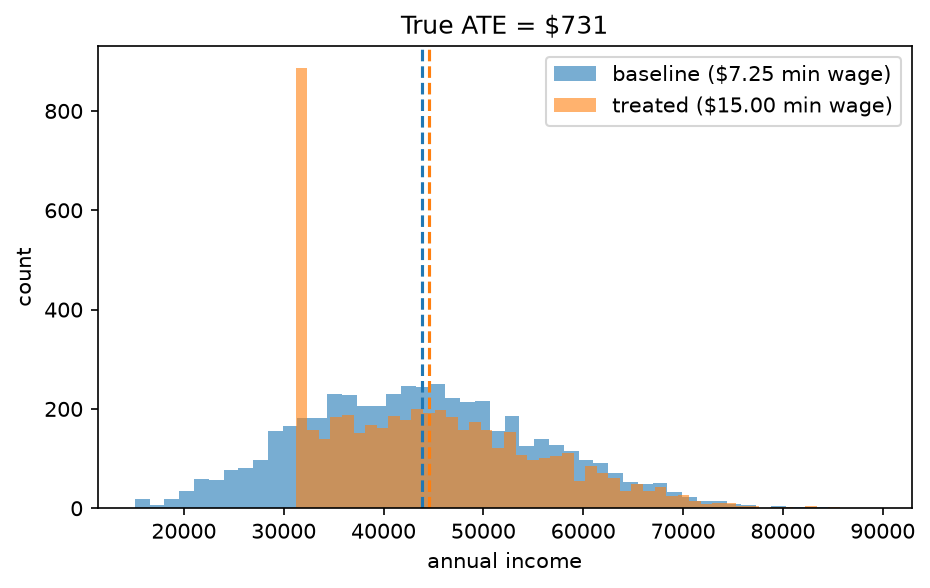
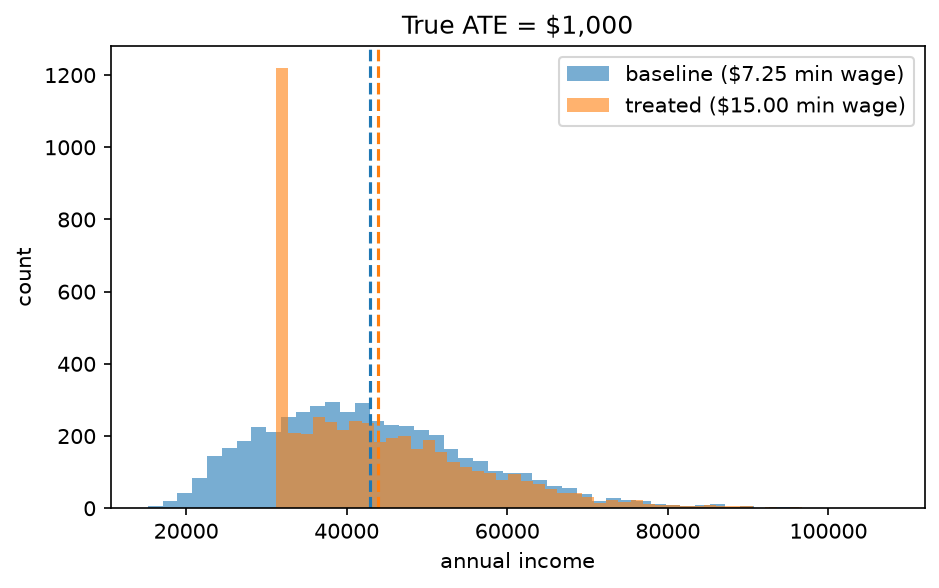
Update of results and image of minimum wage

diff --git a/quantitative_anaysis/causal_inference/minimum_wage_effect/minimum_wage_effect.py b/quantitative_anaysis/causal_inference/minimum_wage_effect/minimum_wage_effect.py
@@ -6,6 +6,9 @@ import matplotlib.pyplot as plt
 import networkx as nx
 import numpy as np
 import pandas as pd
+from rich import print, pretty
+
+#pretty.install()
 
 '''
 Set pathway for calling Synth City:
@@ -49,6 +52,9 @@ baseline_df = city.sample()
 
 treated_city = city.do(min_wage=MIN_WAGE_TREATMENT)
 treated_df = treated_city.sample()
+
+print("baseline mean income", baseline_df["income"].describe().round(2))
+print("treated mean income", treated_df["income"].describe().round(2))
 
 true_ate = treated_df["income"].mean() - baseline_df["income"].mean()
 print(f"true_ate (single sample, n={N}): {true_ate:,.2f}")

diff --git a/quantitative_anaysis/causal_inference/minimum_wage_effect/results.md b/quantitative_anaysis/causal_inference/minimum_wage_effect/results.md
@@ -1,50 +1,74 @@
-# Direct Intervention Effects: What Does Raising the Minimum Wage Actually Do?
+# What Happens to Society When the Minimum Wage Increases?
 
-**Status:** ☑ complete
-**Script:** [`minimum_wage_effect.py`](./minimum_wage_effect.py) ·
+**Status:** ✅ Complete  
+**Analysis:** [`minimum_wage_effect.py`](./minimum_wage_effect.py)
 
-## Objective
+## Context
 
-Because Synth City is a known structural causal model, we don't have to *estimate* the
-effect of a policy change — we can generate the same population twice, once under each
-policy, and read off the true effect directly. This write-up walks through that effect
-from four angles: the raw distribution shift, how it scales with the size of the wage
-increase, how it propagates through the rest of the causal graph, and — most importantly —
-who it actually reaches.
+In real-world, higher wages may coincide with other economic changes, making it challenging to separate correlation from causation. SynthCity provides a unique benchmark: because every individual is generated from a Structural Causal Model (SCM), the same population can be simulated under different interventions while holding everything else constant. This allows the **true causal effect** of a minimum wage increase to be measured directly. Then, we can look at the impact of increasing the minimum wage on household income, employment, and related socioeconomic outcomes
 
-## Method
+This analysis examines how the minimum wage increase  propagate throughout the city's economy and which groups benefit the most.
 
-- **Population:** n = 5,000 (n = 20,000 for the subgroup breakdown, to keep subgroup means stable), seed = 0
-- **Intervention:** `do(min_wage=15.0)` vs. the default policy (`min_wage=7.25`)
-- **Stability check:** the headline ATE is also re-estimated across 20 seeds to establish
-  a noise floor — see Headline numbers
+## Experimental design
 
-## Key results
+The intervention compares two otherwise identical cities:
 
-### 1. Income distribution shift
+- **Baseline city** Minimum wage = **\$7.25**
+- **Intervention city:** Minimum wage = **\$15.00**
+
+Simulation settings:
+
+- Population: **5,000** residents
+- Subgroup analysis: **20,000** residents (to improve estimate stability)
+- Random seed: **0**
+- Stability assessment: Average Treatment Effect (ATE) replicated across **20 independent simulations**
+
+---
+
+## Key Questions
+
+1. **Overall Impact**
+   - How much does household income change after the policy?
+
+2. **Policy Sensitivity**
+   - How do outcomes change as the minimum wage increases incrementally?
+
+3. **Causal Spillover Effects**
+   - Which downstream variables (health, mobility, spending, etc.) change as a consequence of higher wages?
+
+4. **Distributional Effects**
+   - Which demographic groups benefit the most, and which experience little or no change?
+
+
+
+## Results
+
+### 1. How much does household income change after the policy?
 
 ![income distribution shift](./figures/income_distribution_shift.png)
 
-The whole distribution shifts right, not just the floor — income has noise on top of the
-wage floor, so the effect isn't a clean truncation, it's a genuine mean shift.
+
+Raising the minimum wage from **$7.25/hour** to **$15.00/hour** increased the city's **mean annual income** from **$42,943.10** to **$43,943.31**, an average gain of +2.33%.
+The estimated **Average Treatment Effect (ATE) was **$1,000.21**.
+
+The intervention had its largest impact on lower-income workers. The **minimum annual income** increased from **$15,215.29** to **$31,200.00** (**+105.06%**), creating a clear concentration of individuals at the new minimum-income threshold. This shift indicates that the intervention primarily raised earnings at the lower end of the income distribution while leaving higher-income groups largely unchanged.
+
+To assess the robustness of the estimated policy effect, the simulation was repeated across **20 independent random seeds**. The estimated **Average Treatment Effect (ATE)** was **$1,000.21** in the reference simulation (*n* = 5,000) and averaged **$981.36 ± $27.93** across all runs, demonstrating that the observed effect is highly stable.
 
 ### 2. Dose-response curve
 
 ![min wage dose response](./figures/min_wage_dose_response.png)
 
-Sweeping `min_wage` from $7.25 to $24 shows a close-to-linear relationship in this range,
-flattening once the floor stops binding for most of the population.
+Increasing the minimum wage produces a clear, positive increase in mean annual income across the citizens. The relationship is nonlinear: modest increases primarily benefit workers earning near the wage floor, while larger wage increases affect a broader share of the workforce, causing average income to rise more rapidly.
 
-### 3. Propagation through the causal graph
+As the minimum wage approaches **$24–25/hour**, the citizens mean annual income exceeds **$52,000**, compared with the baseline average of **$42,943**. This illustrates how the intervention impact expands beyond the lowest-income workers as progressively more residents become directly affected.
 
-![dag structure](./figures/dag_structure.png)
+### 3. How the Policy Propagates Through the City, spillover effect
+
+
 ![dag shift](./figures/dag_shift_min_wage.png)
 
-`min_wage` (gold) is the intervened node. `income` (its direct child) shows the largest
-standardized effect; `mobility_access` and `health` (two hops downstream) show smaller
-effects; upstream nodes (`education`, `ability`, `parental_ses`) show essentially zero, as
-they should — nothing in a valid causal DAG flows backward against causal order, so this
-doubles as a correctness check on the SCM itself.
+Increasing the minimum wage directly raises **income**, which exhibits the largest effect following the intervention (red node). Those gains propagate to downstream outcomes, producing smaller but measurable improvements in **mobility access** and **health**. Characteristics such as  **education**, **ability**, and **parental socioeconomic status**—remain unchanged. This confirms that the intervention affects only variables downstream of the intervention.
 
 ### 4. Which lever matters most
 
